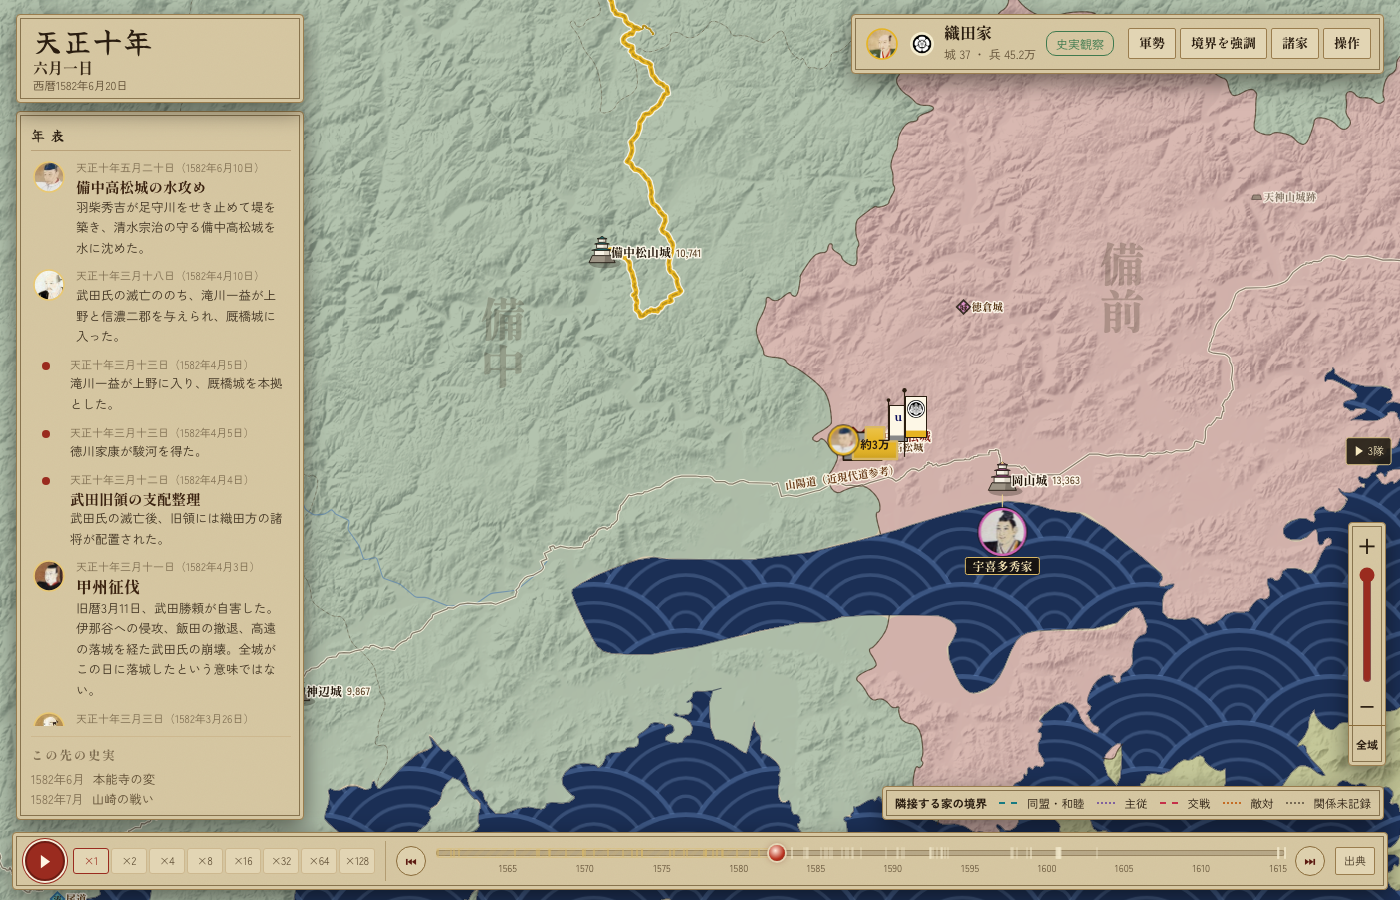
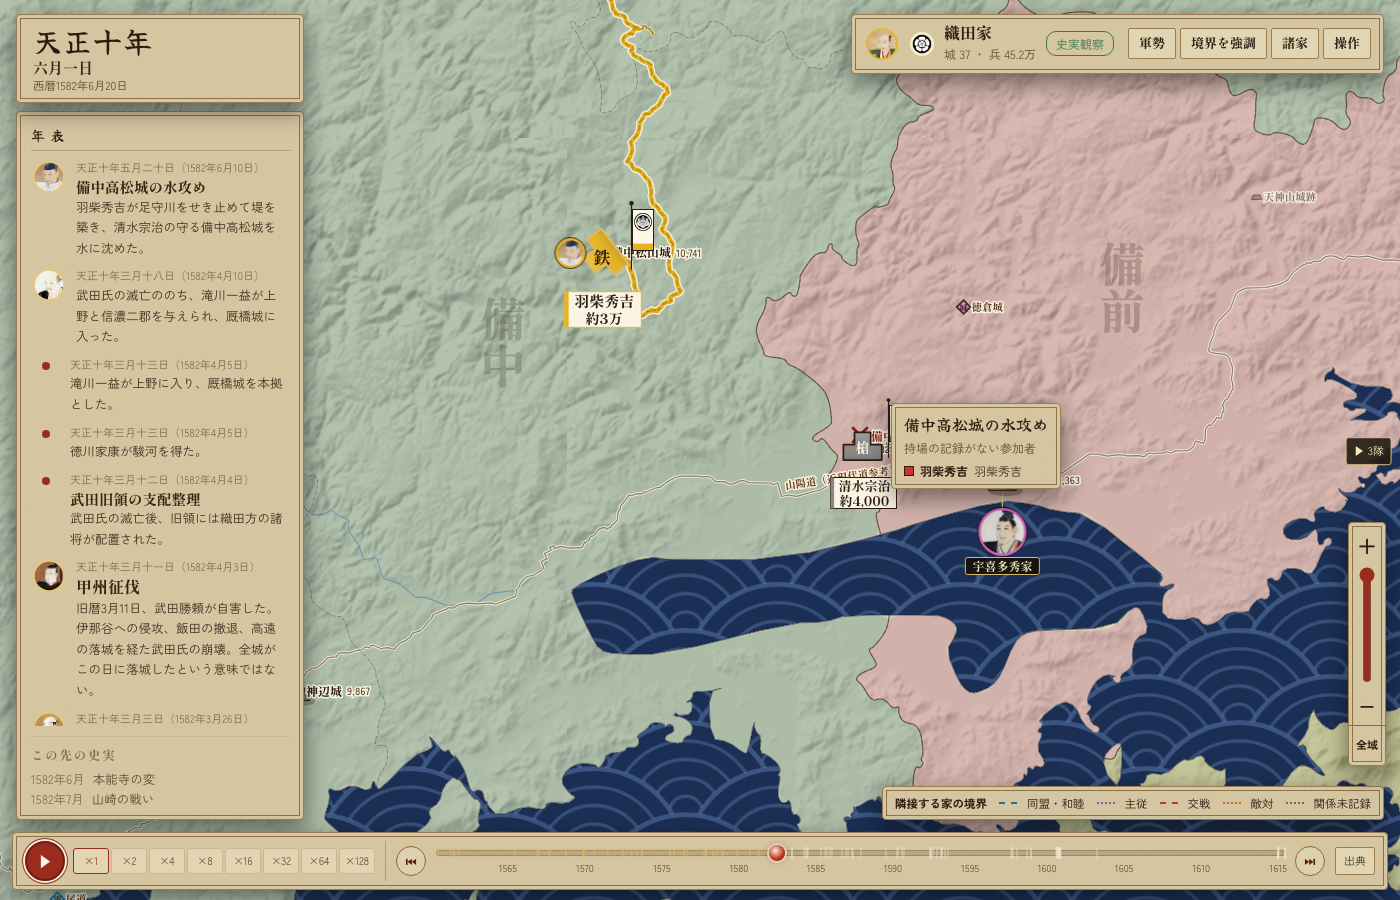
Show unlocated sides in a note, not as map points
直前のコミットで、位置の記録がない側を合戦地の近くの点に置いたが、
「別の場所を行軍しているように見える横ずらしをしない」「不詳の配置
を作らない」という合意に反する（Codex の指摘）。地図の点は位置の記
録がある群だけに戻し、記録がない側は合戦地に添えた札（陣営ごとの欄
に名前）で示す。全111件で両陣営が点か札のどちらかに出ることを確認。

Changed region(s): [[0.5836, 0.4356, 0.7679, 0.5911], [0.3993, 0.2178, 0.4914, 0.3733]]

diff --git a/game/battle-phases.js b/game/battle-phases.js
@@ -18,14 +18,10 @@
  const build=G.buildBattleCatalog;G.buildBattleCatalog=function(){build();for(const sc of Object.values(TK.BATTLES)){sc.researchBeats=sc.researchBeats||sc.beats.map(b=>b.slice());sc.beats=sc.beats.map(b=>[b[0],(b[1]||'').split('。').filter(s=>s&&!/表示|復元|比較|未確認|未確定|未詳|未考証|未照合|区別|混同|断定|確定|個別|として.*置|参照図/.test(s)).join('。')+(b[1]?'。':''),...b.slice(2)]);sc.calendar=(sc.calendar||[]).map(([t,s])=>[t,/比較|未復元/.test(s)?t>=100?'経過の終わり':'布陣':s]);}
   const s=TK.BATTLES['関ヶ原の戦い'];if(s){for(const u of s.units){const m=TK.BATTLE_MOVEMENTS[s.title]?.find(m=>m.name===(u.g||u.n));if(u.turn&&m)u.turn[0]=m.from;}s.sources=[...new Set([...(s.sources||[]),'ieyasuJinba'])];s.beats=[[0,'東西の軍勢が関ヶ原に布陣する。'],[15,'東軍の先鋒と宇喜多勢が交戦する。',['fukushima','ukita']],[30,'石田・宇喜多・小西・大谷の諸隊が東軍を迎え撃つ。',['kuroda','mitsunari']],[40,'家康は桃配山から陣場野へ本陣を進める。',['ieyasu']],[55,'小早川秀秋が東軍に加担し、大谷勢へ攻めかかる。',['kobayakawa','otani']],[61,'脇坂・朽木・赤座・小川の四将も東軍側へ転じる。',['wakisaka','otani']],[78,'西軍が崩れ、大谷吉継が戦死。三成らは戦場を離れる。'],[88,'島津勢が敵中を突破し、伊勢街道へ退却する。',['shimazu','ii']],[100,'東軍の勝利に終わる。']];}
  };
- // 開戦前の布陣プレビュー。位置の記録がない側（攻め口不詳の攻囲軍など）も、合戦地の代表点の近くに「持場不詳」の一隊として出し、
-// 一方の陣営だけが地図に出て始まる見え方を避ける。向きは各軍の本拠から合戦地へ向かう方向（来た方角）で、陣地の測量値ではない。
-G.deploymentArmies=function(title){const located=deploymentLocated(title),sc=TK.BATTLES[title];if(!sc)return located;const meta=TK.BATTLE_ATLAS?.[title];const site=meta?G.PJ(meta.geo[0],meta.geo[1]):null;if(!site)return located;
- const out=[...located];for(const side of ['a','b']){if(located.some(a=>a.side===side))continue;const members=sc.units.filter(u=>u.side===side);if(!members.length)continue;
-  const clan=sc.sides[side]?.clan&&TK.CLANS[sc.sides[side].clan]?sc.sides[side].clan:members.map(u=>G.genByName(u.g)?.clan).find(Boolean)||'unknown';const home=G.S().clans[clan]?.cap&&G.C[G.S().clans[clan].cap];
-  let dx=side==='a'?-1:1,dy=0;if(home){const vx=home.x-site[0],vy=home.y-site[1],l=Math.hypot(vx,vy);if(l>1e-6){dx=vx/l;dy=vy/l;}}
-  const here=[site[0]+dx*1.6,site[1]+dy*1.6],angle=Math.atan2(site[1]-here[1],site[0]-here[0]);
-  out.push({id:'deployment:'+side+'-unlocated',side,clan,gens:[],commanders:[members[0].g||members[0].n],troops:members.reduce((n,u)=>n+(u.tr||0),0),morale:85,train:70,path:[sc.at,sc.at],origin:sc.at,seg:0,pos:0,state:'camp',mission:'show',hist:true,until:title,battlePoint:here,battleAngle:angle,unlocated:true});}
- return out;};
+ // 開戦前の布陣プレビュー。地図の点には位置の記録がある群だけを置く（不詳の持場を座標として作らない）。
+// 位置の記録がない側は G.deploymentUnlocated で返し、画面では合戦地に添えた札（陣営別の欄）に名前を並べる。
+G.deploymentArmies=function(title){return deploymentLocated(title);};
+G.deploymentUnlocated=function(title){const sc=TK.BATTLES[title];if(!sc)return [];const located=new Set(deploymentLocated(title).map(a=>a.side));const meta=TK.BATTLE_ATLAS?.[title];
+ return ['a','b'].map(side=>{const members=sc.units.filter(u=>u.side===side&&!(sc.atlasGroups||[]).some(g=>g.point&&g.members.includes(u.id)));return {side,name:sc.recordSides?.[side==='a'?0:1]||sc.sides[side]?.n||'',clan:sc.sides[side]?.clan,names:members.map(u=>u.g||u.n).filter(Boolean),noLocated:!located.has(side),site:meta?.geo?.slice(0,2)||null};}).filter(r=>r.names.length&&r.noLocated);};
 function deploymentLocated(title){const s=G.S(),sc=TK.BATTLES[title];if(!sc)return [];return sc.units.flatMap(u=>{const group=(sc.atlasGroups||[]).find(g=>g.members.includes(u.id));if(!group?.point)return [];const here=G.PJ(...group.point),opponents=(sc.atlasGroups||[]).filter(g=>g.point&&g.side!==u.side).map(g=>G.PJ(...g.point)).sort((a,b)=>Math.hypot(a[0]-here[0],a[1]-here[1])-Math.hypot(b[0]-here[0],b[1]-here[1])),angle=opponents.length?Math.atan2(opponents[0][1]-here[1],opponents[0][0]-here[0]):null;const g=G.genByName(u.g),clan=g?.clan||u.clan||sc.sides[u.side]?.clan||'unknown',node=g?.loc&&G.C[g.loc]?g.loc:sc.at;return [{id:'deployment:'+u.id,side:u.side,clan,gens:[],commanders:[u.g||u.n],troops:u.tr||0,morale:85,train:70,path:[node,node],origin:node,seg:0,pos:0,state:'camp',mission:'show',hist:true,until:title,battlePoint:here,battleAngle:angle}];});}
 })();

diff --git a/game/ui.js b/game/ui.js
@@ -440,7 +440,7 @@ function drawTop(){LANDV=landFor(cam.z);
   c.font='800 12px "Shippori Mincho B1",serif';c.textBaseline='middle';const t=st.n+'の戦い';const label=/戦い|変|城|攻め|平定|乱|殺し|開城|落城|征伐|一揆/.test(st.n)?st.n:t;c.lineWidth=3.4;c.strokeStyle='rgba(255,248,230,.95)';c.strokeText(label,x+11,y+1);c.fillStyle='#7a1c12';c.fillText(label,x+11,y+1);c.font='600 10px "Zen Kaku Gothic New",sans-serif';c.lineWidth=3;c.strokeText(st.y+'年',x+11,y+14);c.fillStyle='#5a3a26';c.fillText(st.y+'年',x+11,y+14);c.globalAlpha=1;}
  // 各隊を実位置の凸で描き、重なりは選択用の案内を添える。
  let mapUnits=[...(G.visibleNativeArmies?.()||S.units),...(G.documentedArmies?.()||[])];if(U.deploymentPreview?.t===S.t){const deployment=G.deploymentArmies(U.deploymentPreview.title),names=new Set(deployment.flatMap(u=>u.commanders));mapUnits=mapUnits.filter(u=>!(u.commanders||u.gens.map(id=>G.gen(id)?.n)).some(n=>names.has(n))).concat(deployment);}
- U.mapUnits=mapUnits;const candidates=G.convoyLayout(mapUnits.filter(u=>G.marchPhase?.(u).key!=='waiting'),z,w2s,uXY);
+ U.mapUnits=mapUnits;renderDeployNote();const candidates=G.convoyLayout(mapUnits.filter(u=>G.marchPhase?.(u).key!=='waiting'),z,w2s,uXY);
  const v=vc(),area=U.mode==='game'?{left:v[0]-v[2]/2+8,top:v[1]-v[3]/2+8,width:Math.max(120,v[2]-16),height:Math.max(120,v[3]-16)}:{left:0,top:0,width:VW,height:VH};
  const outside={left:[],right:[],top:[],bottom:[],more:[]},laid=[];
  for(const p of candidates){if(p.x<0||p.x>VW||p.y<0||p.y>VH){outside[p.x<0?'left':p.x>VW?'right':p.y<0?'top':'bottom'].push(p);continue;}laid.push({...p,anchorX:p.x,anchorY:p.y});}
@@ -452,6 +452,12 @@ function drawTop(){LANDV=landFor(cam.z);
 
  c.restore();
 }
+// 布陣プレビュー：位置の記録がない側は地図の点にせず、合戦地に添えた札へ陣営ごとに名前を並べる。
+function renderDeployNote(){const el=$('#deployNote');if(!el)return;const P=U.deploymentPreview;const rows=P&&P.t===S?.t&&G.deploymentUnlocated?G.deploymentUnlocated(P.title):[];
+ if(!rows.length){if(!el.hidden){el.hidden=true;el._k='';}return;}
+ const site=rows[0].site?w2s(...G.PJ(...rows[0].site)):[VW/2,VH/2];const k=P.title+'|'+rows.map(r=>r.side+r.names.join()).join('/');
+ if(el._k!==k){el._k=k;el.innerHTML=`<b>${esc(P.title)}</b><small>持場の記録がない参加者</small>`+rows.map(r=>`<div class="dn-row" style="--army:${r.side==='a'?'#c83339':'#216d9f'}"><i></i><span>${esc(r.name)}</span><em>${esc(r.names.filter(n=>n!==r.name).slice(0,4).join('・'))}${r.names.length>4?' ほか'+(r.names.length-4)+'名':''}</em></div>`).join('');}
+ el.hidden=false;el.style.left=Math.round(Math.max(8,Math.min(VW-el.offsetWidth-8,site[0]+28)))+'px';el.style.top=Math.round(Math.max(8,Math.min(VH-el.offsetHeight-90,site[1]-el.offsetHeight/2)))+'px';}
 // 画面外の隊は実位置を変えず、方向・隊数だけを端に示す。
 function renderArmyEdges(groups,a,units){const el=$('#armyEdges');if(!el)return;
  const positions={left:[a.left,a.top+a.height/2,'translateY(-50%)','◀'],right:[a.left+a.width,a.top+a.height/2,'translate(-100%,-50%)','▶'],top:[a.left+a.width/2,a.top,'translateX(-50%)','▲'],bottom:[a.left+a.width/2,a.top+a.height,'translate(-50%,-100%)','▼'],more:[a.left+a.width,a.top+a.height,'translate(-100%,-100%)','一覧']};

diff --git a/game/index.html b/game/index.html
@@ -415,6 +415,7 @@ body[data-modal] #news{visibility:hidden}body[data-modal=scene] #toast,body[data
   <aside id="chron" class="frame gonly" aria-live="polite"></aside>
   <aside id="drawer" class="frame gonly" hidden></aside>
   <div id="armyEdges" aria-label="画面外の軍勢"></div>
+  <div id="deployNote" class="frame" hidden aria-live="polite"></div>
   <nav id="mapZoom" class="frame" aria-label="地図の拡大縮小"><button type="button" data-act="zoom-in" aria-label="拡大">＋</button><input id="mapZoomRange" type="range" min="0" max="100" value="30" aria-label="地図の縮尺"><button type="button" data-act="zoom-out" aria-label="縮小">−</button><button type="button" data-act="zoom-fit" aria-label="地図全域を表示">全域</button></nav>
   <div id="legend" class="frame gonly" aria-label="凡例"></div>
   <div id="tline" class="frame gonly" hidden><div class="tlctl"><button type="button" id="ppBtn" class="pp" data-act="playpause" aria-label="時を進める">▶</button><div class="mult" role="group" aria-label="時の速さ"><button type="button" data-act="speed" data-v="1" title="4秒で1日">×1</button><button type="button" data-act="speed" data-v="2" title="4秒で2日">×2</button><button type="button" data-act="speed" data-v="3" title="4秒で4日">×4</button><button type="button" data-act="speed" data-v="4" title="4秒で8日">×8</button><button type="button" data-act="speed" data-v="5" title="4秒で16日">×16</button><button type="button" data-act="speed" data-v="6" title="4秒で32日">×32</button><button type="button" data-act="speed" data-v="7" title="4秒で64日">×64</button><button type="button" data-act="speed" data-v="8" title="4秒で128日">×128</button></div></div><button id="tlBack" class="tlb" type="button" title="少し前に戻る" aria-label="少し前に戻る">⏮</button><button id="tlPlay" class="tlb pri" type="button" aria-label="進める">▶</button><div id="tlTrack"><div class="tlbar"><span id="tlHead"></span><span id="tlFill"></span></div><div id="tlMarks"></div><span id="tlKnob"></span><span id="tlTip" hidden></span></div><button id="tlNow" class="tlb" type="button" title="次の出来事まで進める">⏭</button><div id="tlD"></div><button type="button" class="tlsrc" data-act="open" data-m="image-credits" title="地図・標高・肖像・家紋の出典と利用条件">出典</button></div>

diff --git a/game/theme-washi.css b/game/theme-washi.css
@@ -101,3 +101,10 @@ a{color:#7a1f17}
 .btn,.tbtn,.mini,.act,.pc,.scard,.ic,.pol,.src,.est,.menu-link,.mult button,#compactSpeed,.tlsrc{background:#e2d5b4!important}
 .bnar,.atlas-stage .battle-key{background:#cfc099}
 #title{background:radial-gradient(ellipse 110% 42% at 50% 48%,rgba(8,6,4,.88),rgba(8,6,4,.62) 70%,rgba(8,6,4,.8))}
+/* 布陣プレビューの不詳札 */
+#deployNote{position:absolute;z-index:6;max-width:300px;padding:8px 12px;font-size:12px;pointer-events:none;color:#2a1d10}
+#deployNote b{display:block;font-family:var(--f-fude);font-weight:400;font-size:16px}
+#deployNote small{display:block;color:#5d4c33;margin-bottom:4px}
+#deployNote .dn-row{display:flex;gap:6px;align-items:baseline;margin-top:3px}
+#deployNote .dn-row i{width:10px;height:10px;background:var(--army);flex:none;border:1px solid #2a1d10}
+#deployNote .dn-row span{font-weight:700;white-space:nowrap}#deployNote .dn-row em{font-style:normal;color:#3f3221}
